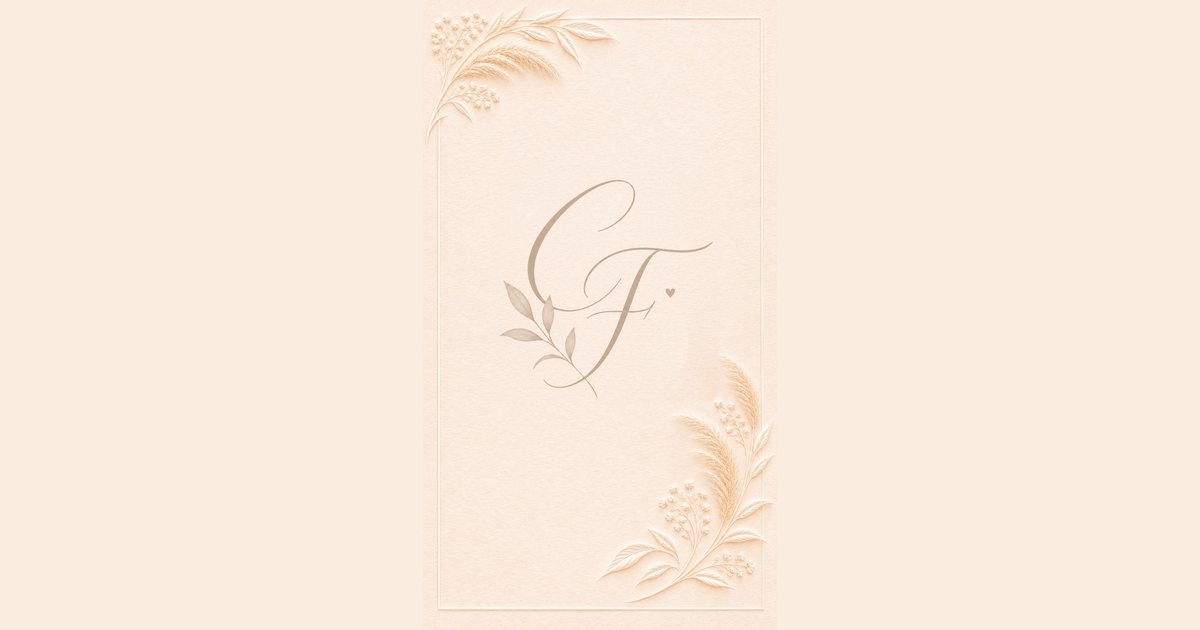
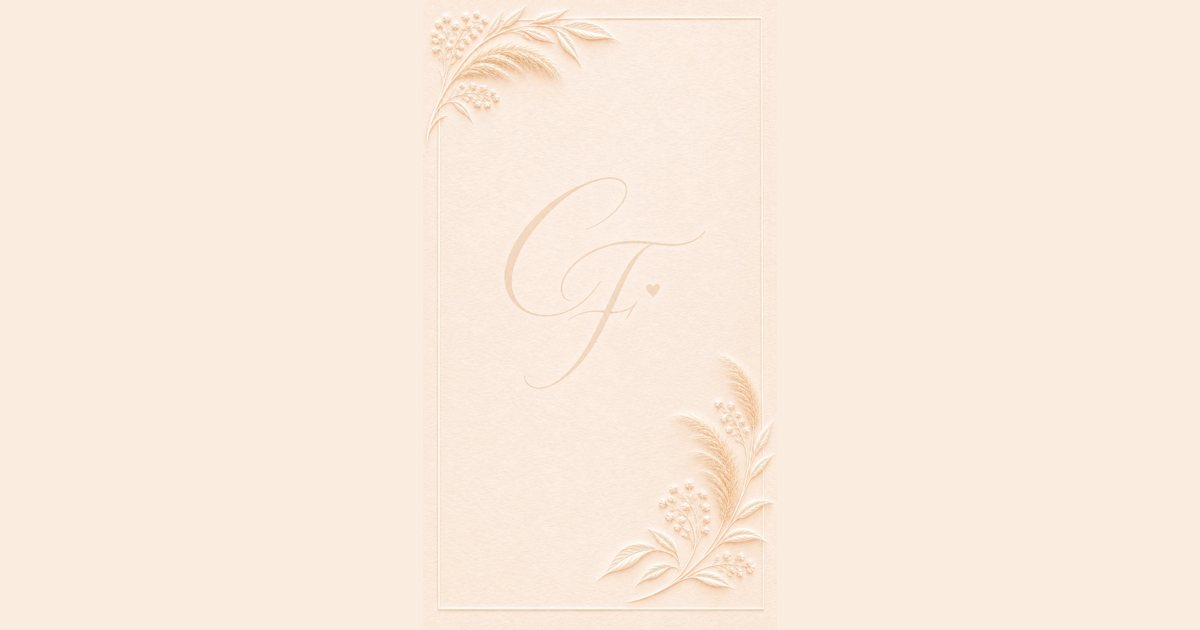
Segue a versão final do convite digital
Volta à arte original, com o monograma em relevo, e posiciona os textos
como no convite final: nomes em Cinzel, convite e endereço em Montserrat
itálico cinza-escuro e data em Montserrat semibold itálico. Todos os
textos ficam centralizados. Mantém os três botões da versão anterior.

Claude-Session: https://claude.ai/code/session_01DKYmJULtGc1Pn9fAHmpsL7

Changed region(s): [[0.4008, 0.3317, 0.5858, 0.6032], [0.4933, 0.2714, 0.5242, 0.3016], [0.4625, 0.3016, 0.4933, 0.3317]]

diff --git a/assets/style.css b/assets/style.css
@@ -17,8 +17,9 @@
   --titulo: "Cinzel", "Trajan Pro", Georgia, serif;              /* no lugar da Trajan Pro */
   --serifa: "Gilda Display", "Wondershine", Georgia, serif;      /* no lugar da Wondershine */
   --sans: "Montserrat", system-ui, sans-serif;
-  --assinatura: "Babylonica", "Pinyon Script", cursive;            /* nomes, como no convite em PDF */
-  --tinta-convite: #A9876F;    /* tom do PDF (#C8AD9A), um pouco mais escuro para leitura */
+  --cor-nomes: #BB9C86;        /* nomes: tom do PDF (#C8AD9A), um pouco mais firme */
+  --cor-data: #B8927A;         /* data: tom do PDF (#C39D82) */
+  --cor-texto: #3A3532;        /* convite e endereço: cinza-escuro do PDF (#333333) */
   --cor-botao: #B8977F;
   --cor-botao-escura: #9E7D66;
   --mola: cubic-bezier(.2, .8, .2, 1);
@@ -296,69 +297,47 @@ img { display: block; max-width: 100%; }
 .js .texto { opacity: 0; transform: translateY(14px); filter: blur(5px); transition: opacity 1.2s ease, transform 1.2s var(--mola), filter 1.2s; transition-delay: calc(var(--i) * .45s + .5s); }
 .js .pronto .texto { opacity: 1; transform: none; filter: none; }
 
-/* Textos do convite */
+/* Textos do convite, como na versão final em PDF: todos centralizados */
 .surge { margin: 0; }
 .js .surge { opacity: 0; transform: translateY(12px); filter: blur(4px); transition: opacity 1.1s ease, transform 1.1s var(--mola), filter 1.1s; transition-delay: calc(var(--i) * .3s + .3s); }
 .js .pronto .surge { opacity: 1; transform: none; filter: none; }
 
-/* Nomes por extenso, logo acima do monograma */
-.t-nomes {
-  left: 6%; right: 6%; top: 19.6%;
+.t-nomes, .t-convite, .t-data, .t-endereco, .t-botoes {
+  position: absolute; left: 0; right: 0;
   text-align: center;
-  font-family: var(--assinatura); font-weight: 400;
-  font-size: 30px; font-size: 10.2cqw; line-height: 1.15; letter-spacing: .01em;
-  color: var(--tinta-convite);
 }
-.js .texto.t-nomes { transform: translateY(12px); }
-.js .pronto .texto.t-nomes { transform: none; }
-
-/* Monograma com ramo e coração, desenhado como a pena */
-.t-monograma {
-  position: absolute; left: 50%; top: 27.6%;
-  width: 58%; height: auto;
-  transform: translateX(-48%);
-  pointer-events: none;
+.t-nomes {
+  top: 22.8%;
+  font-family: var(--titulo); font-weight: 400;
+  font-size: 19px; font-size: 5.95cqw; line-height: 1.2; letter-spacing: 0;
+  color: var(--cor-nomes);
 }
-.js .t-monograma {
-  -webkit-mask-image: linear-gradient(100deg, #000 40%, transparent 60%);
-          mask-image: linear-gradient(100deg, #000 40%, transparent 60%);
-  -webkit-mask-size: 300% 100%; mask-size: 300% 100%;
-  -webkit-mask-position: 100% 0; mask-position: 100% 0;
-}
-.js .pronto .t-monograma { animation: desenhar 2.4s ease-in-out .15s forwards; }
-@keyframes desenhar {
-  from { -webkit-mask-position: 100% 0; mask-position: 100% 0; }
-  to   { -webkit-mask-position: 0 0; mask-position: 0 0; }
-}
-
-.t-coluna {
-  left: 6%; width: 76%; top: 62.4%;
-  display: flex; flex-direction: column; align-items: center; text-align: center;
-  color: var(--tinta-convite);
-}
-.js .texto.t-coluna { opacity: 1; transform: none; filter: none; transition: none; }
 .t-convite {
-  font-family: var(--sans); font-style: italic; font-weight: 600;
-  font-size: 8px; font-size: 2.5cqw; line-height: 1.6; letter-spacing: .03em;
+  top: 36.6%; padding-left: .09em;
+  font-family: var(--sans); font-style: italic; font-weight: 400;
+  font-size: 9px; font-size: 2.8cqw; line-height: 1.75; letter-spacing: .09em;
+  color: var(--cor-texto);
 }
 .t-data {
-  margin-top: 2cqw;
+  top: 46.85%;
   font-family: var(--sans); font-style: italic; font-weight: 600;
-  font-size: 10px; font-size: 3cqw; letter-spacing: .03em;
+  font-size: 12px; font-size: 3.72cqw; line-height: 1.3; letter-spacing: 0;
+  color: var(--cor-data);
 }
-.t-arabesco { width: 20cqw; height: 2.7cqw; margin-top: 1.6cqw; overflow: visible; }
 .t-endereco {
-  margin-top: 1.6cqw;
-  font-family: var(--sans); font-weight: 600;
-  font-size: 8px; font-size: 2.4cqw; line-height: 1.55; letter-spacing: .05em;
-  color: inherit; text-decoration: none;
+  top: 54.15%; width: max-content; left: 50%; right: auto; transform: translateX(-50%); padding-left: .09em;
+  font-family: var(--sans); font-style: italic; font-weight: 400;
+  font-size: 9px; font-size: 2.8cqw; line-height: 1.4; letter-spacing: .09em;
+  color: var(--cor-texto); text-decoration: none;
   background: linear-gradient(currentColor, currentColor) 50% 100% / 0 1px no-repeat;
   transition: background-size .4s var(--mola);
 }
+.js .t-endereco.surge { transform: translate(-50%, 12px); }
+.js .pronto .t-endereco.surge { transform: translateX(-50%); }
 .t-endereco:hover, .t-endereco:focus-visible { background-size: 100% 1px; outline: none; }
 
 /* Botões simples, todos iguais, com um brilho discreto que passa de tempos em tempos */
-.t-botoes { margin-top: 4.4cqw; display: grid; gap: 2.6cqw; justify-items: center; }
+.t-botoes { top: 63.6%; display: grid; gap: 2.6cqw; justify-items: center; }
 .botao {
   position: relative; overflow: hidden; isolation: isolate;
   display: grid; place-items: center;

diff --git a/index.html b/index.html
@@ -14,8 +14,8 @@
   <link rel="preload" as="image" href="assets/convite.webp" type="image/webp">
   <link rel="preconnect" href="https://fonts.googleapis.com">
   <link rel="preconnect" href="https://fonts.gstatic.com" crossorigin>
-  <link href="https://fonts.googleapis.com/css2?family=Babylonica&family=Cinzel:wght@400;500&family=Gilda+Display&family=Montserrat:ital,wght@0,400;0,500;0,600;1,600&display=swap" rel="stylesheet">
-  <link rel="stylesheet" href="assets/style.css?v=2026-11-08-4">
+  <link href="https://fonts.googleapis.com/css2?family=Cinzel:wght@400;500&family=Gilda+Display&family=Montserrat:ital,wght@0,400;0,500;0,600;1,400;1,600&display=swap" rel="stylesheet">
+  <link rel="stylesheet" href="assets/style.css?v=2026-11-08-5">
   <script>document.documentElement.classList.add("js");</script>
 </head>
 <body>
@@ -35,19 +35,15 @@
       <!-- Convite -->
       <article class="convite" aria-label="Convite de casamento de Carolina e Fernando">
         <div class="convite-conteudo">
-          <h1 class="texto surge t-nomes" style="--i:1">Carolina e Fernando</h1>
-          <img class="t-monograma" src="assets/monograma-ramo.png" alt="Monograma C e F com ramo e coração">
-          <div class="texto t-coluna">
-            <p class="surge t-convite" style="--i:2">Juntamente com suas famílias convidam<br>para o seu casamento a ser realizado dia</p>
-            <p class="surge t-data" style="--i:3">20/03/2027 às 16:30</p>
-            <svg class="surge t-arabesco" style="--i:3" viewBox="0 0 120 16" aria-hidden="true"><path d="M8 11C4 7 8 2 14 4C30 9 52 12 66 8C70 7 72 4 69 3C66 2 65 6 68 8C80 14 102 12 116 5" fill="none" stroke="currentColor" stroke-width="1.3" stroke-linecap="round"/></svg>
-            <a class="surge t-endereco" style="--i:4" href="https://www.google.com/maps/search/?api=1&amp;query=Beco+dos+Feij%C3%B3s%2C+1140+-+Jardim+Viamar%2C+Viam%C3%A3o+-+RS" target="_blank" rel="noopener">Beco dos Feijós, 1140 - Jardim Viamar<br>Viamão - RS</a>
-            <nav class="t-botoes" aria-label="Links do casamento">
-              <a class="surge botao" style="--i:5" href="https://www.carolinaefernando.com.br/pages/38839921">Confirmar presença</a>
-              <a class="surge botao" style="--i:5.5" href="https://www.carolinaefernando.com.br/pages/39036805">Lista de presentes</a>
-              <a class="surge botao" style="--i:6" href="https://www.carolinaefernando.com.br/">Site do casamento</a>
-            </nav>
-          </div>
+          <h1 class="surge t-nomes" style="--i:0">Carolina &amp; Fernando</h1>
+          <p class="surge t-convite" style="--i:1">Juntamente com suas famílias convidam<br>para o seu casamento a ser realizado dia</p>
+          <p class="surge t-data" style="--i:2">20/03/2027 às 16:30</p>
+          <a class="surge t-endereco" style="--i:3" href="https://www.google.com/maps/search/?api=1&amp;query=Beco+dos+Feij%C3%B3s%2C+1140+-+Jardim+Viamar%2C+Viam%C3%A3o+-+RS" target="_blank" rel="noopener">Beco dos Feijós, 1140 - Jardim Viamar, Viamão - RS</a>
+          <nav class="t-botoes" aria-label="Links do casamento">
+            <a class="surge botao" style="--i:4" href="https://www.carolinaefernando.com.br/pages/38839921">Confirmar presença</a>
+            <a class="surge botao" style="--i:4.5" href="https://www.carolinaefernando.com.br/pages/39036805">Lista de presentes</a>
+            <a class="surge botao" style="--i:5" href="https://www.carolinaefernando.com.br/">Site do casamento</a>
+          </nav>
         </div>
       </article>
 
@@ -112,6 +108,6 @@
     <p class="dica">Toque no selo para abrir</p>
   </main>
 
-  <script src="assets/main.js?v=2026-11-08-4"></script>
+  <script src="assets/main.js?v=2026-11-08-5"></script>
 </body>
 </html>
